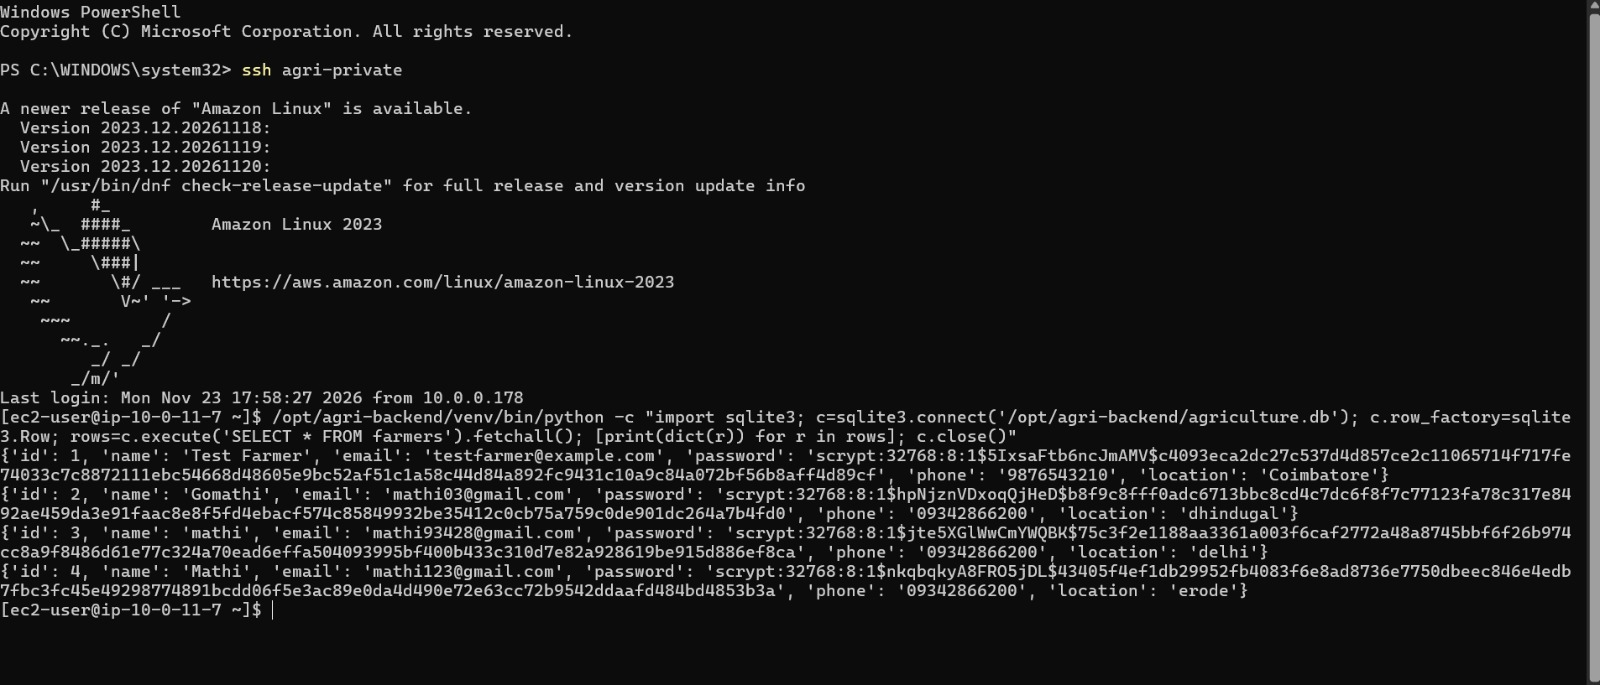
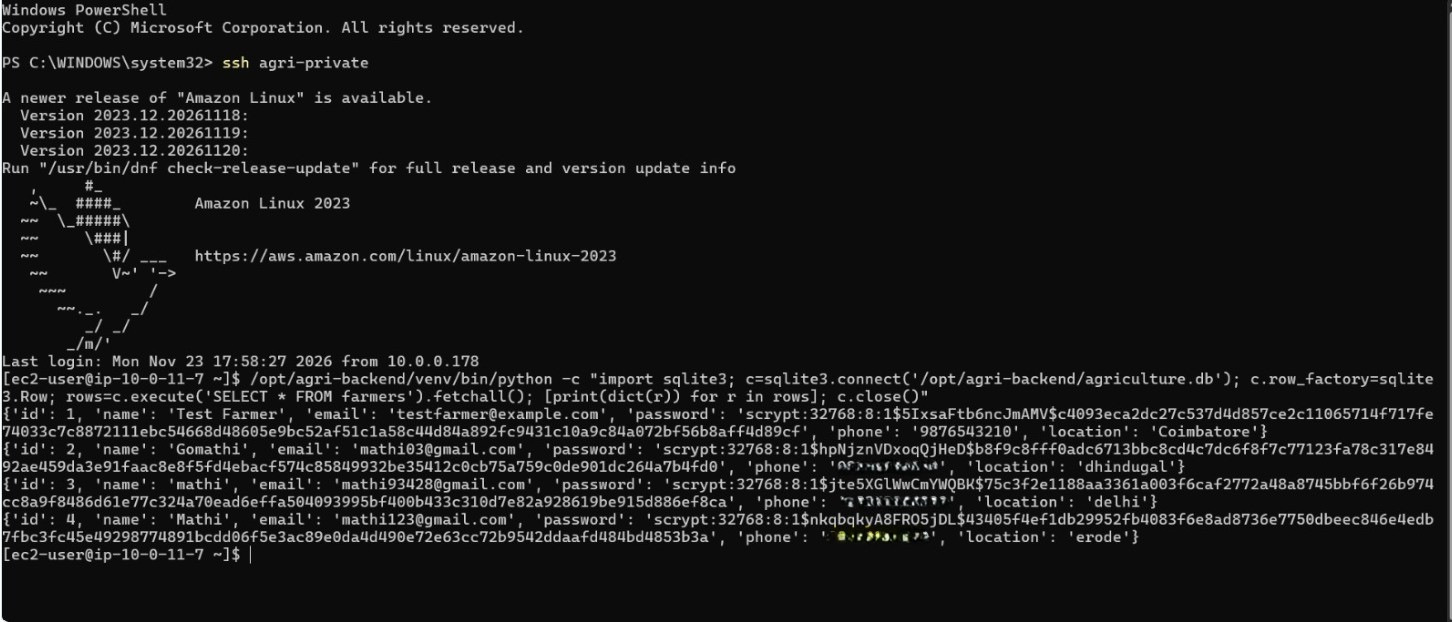
add future enhancement

diff --git a/README.md b/README.md
@@ -254,7 +254,7 @@ Key Finding
 
  - Verified backend connectivity through the Application Load Balancer.
 
- ## Key Findings:
+ #### Key Findings:
 
  - Understood how to deploy Flask applications on EC2.
 
@@ -318,7 +318,39 @@ Key Finding
 
 ![Console-output](images/console-db-output.jpeg)
 
+# Future Improvements
 
+#### 1.AI-Based Crop Recommendation
+
+ - Implement AI/ML algorithms to analyze soil type, weather conditions, and location.
+
+ - Recommend suitable crops based on soil fertility and environmental conditions.
+
+ - Help farmers improve crop productivity and make better agricultural decisions.
+
+#### 2.Real-Time Weather Updates
+
+ - Integrate weather APIs to fetch real-time weather information.
+
+ - Provide temperature, rainfall, humidity, and weather forecasts based on farmers' locations.
+
+ - Send weather alerts to farmers to help them plan agricultural activities.
+
+#### 3.Real-Time Market Price Updates
+
+ - Integrate agricultural market APIs to fetch updated crop prices.
+
+ - Display daily market rates based on crop type and market location.
+
+ - Help farmers compare prices and choose the best market to sell their crops.
+
+#### Mobile Application
+
+ - Develop an Android application to provide easy access to agricultural information.
+
+ - Enable farmers to view crop details, weather forecasts, and market prices through mobile devices.
+ 
+ - Provide a user-friendly interface to help farmers access information anytime and anywhere.
 
 
 
